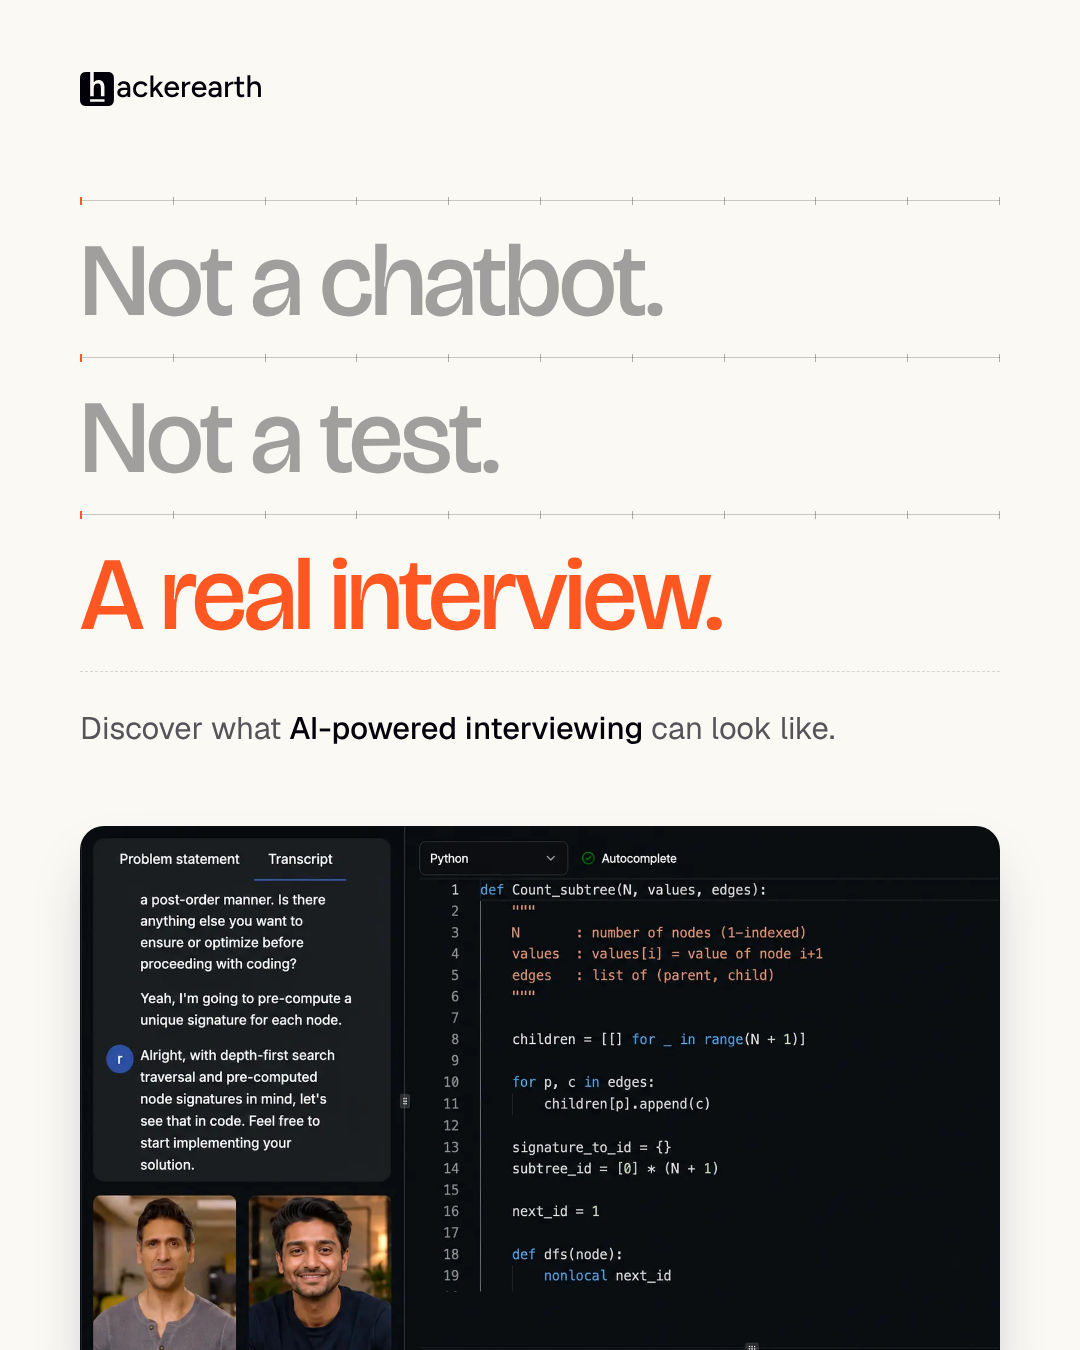
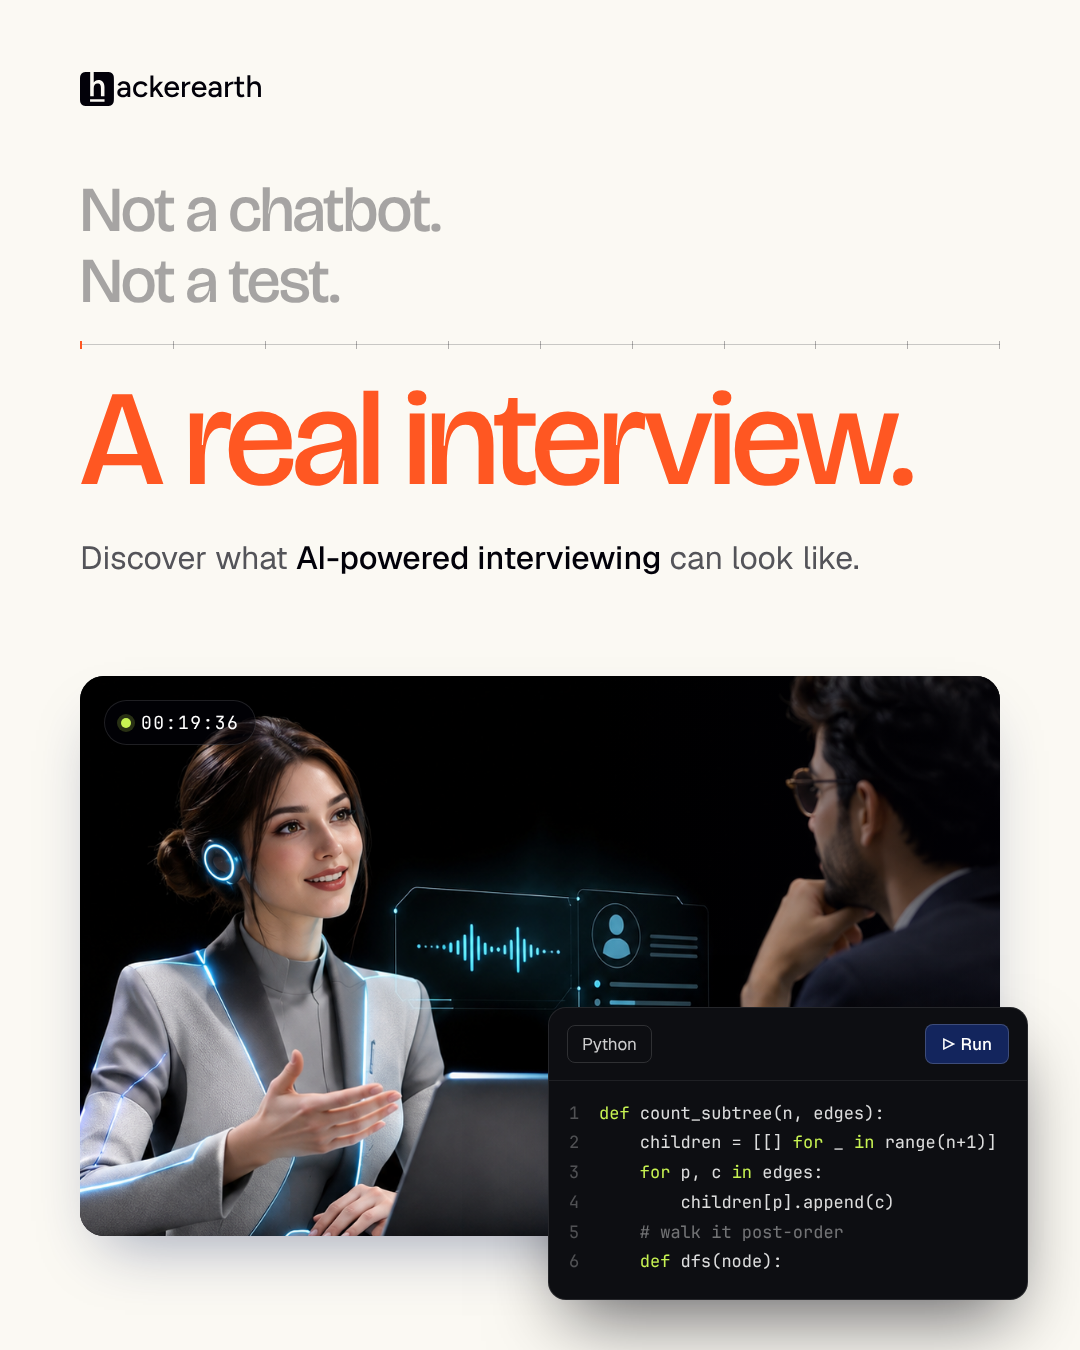
Static post: stronger hierarchy and interview + live-code scene
Claude-Session: https://claude.ai/code/session_011WvSfdXWh4koNY7sQ51yCa

diff --git a/onscreen-carousel/static-post.html b/onscreen-carousel/static-post.html
@@ -73,15 +73,27 @@
 
   
   /* ---------- STATIC POST ---------- */
-  .p .content { position: absolute; top: 160px; left: 80px; right: 80px; }
-  .stack { margin-top: 40px; }
-  .stack .line { position: relative; border-top: 1px solid rgba(2,1,9,0.2); padding: 28px 0 24px; font-family: var(--display); font-weight: 500; font-size: 104px; line-height: 1; letter-spacing: -3.2px; font-variation-settings: "opsz" 96; }
-  .stack .line.muted { color: rgba(2,1,9,0.36); }
-  .stack .line em { font-style: normal; color: var(--cta); }
-  .stack .line:last-child { border-bottom: 1px dashed rgba(2,1,9,0.14); }
-  .p .lead { margin-top: 34px; }
-  .p .shot { position: absolute; left: 80px; right: 80px; top: 826px; bottom: -40px; border-radius: 24px; overflow: hidden; border: 1px solid rgba(2,1,9,0.08); box-shadow: 0 30px 60px -20px rgba(19,37,93,0.35); background: #0d0e12; }
-  .p .shot img { display: block; width: 100%; height: 100%; object-fit: cover; object-position: left top; }
+  .p .content { position: absolute; top: 176px; left: 80px; right: 80px; }
+  .nots { display: flex; flex-direction: column; gap: 4px; }
+  .nots span { font-family: var(--display); font-weight: 500; font-size: 64px; line-height: 1.05; letter-spacing: -1.8px; color: rgba(2,1,9,0.34); font-variation-settings: "opsz" 96; }
+  .big { position: relative; margin-top: 30px; padding-top: 30px; border-top: 1px solid rgba(2,1,9,0.2); font-family: var(--display); font-weight: 500; font-size: 136px; line-height: 0.95; letter-spacing: -4.6px; color: var(--cta); font-variation-settings: "opsz" 96; }
+  .p .lead { margin-top: 30px; font-size: 32px; }
+
+  .scene { position: absolute; left: 80px; right: 80px; top: 676px; height: 560px; }
+  .photo { position: absolute; inset: 0 0 0 0; border-radius: 24px; overflow: hidden; background: #020109; box-shadow: 0 30px 60px -24px rgba(19,37,93,0.4); }
+  .photo img { position: absolute; width: 1000px; height: 1000px; left: -40px; top: -150px; }
+  .photo::after { content: ""; position: absolute; inset: 0; background: linear-gradient(90deg, rgba(2,1,9,0) 55%, rgba(2,1,9,0.55) 100%); }
+  .live { position: absolute; top: 24px; left: 24px; z-index: 2; display: inline-flex; align-items: center; gap: 10px; padding: 10px 16px; border-radius: 100px; background: rgba(2,1,9,0.55); border: 1px solid rgba(255,255,255,0.12); font-family: var(--mono); font-size: 18px; letter-spacing: 1.5px; color: #fff; }
+  .live i { width: 10px; height: 10px; border-radius: 50%; background: var(--lime); box-shadow: 0 0 0 4px rgba(199,242,82,0.2); }
+
+  .code { position: absolute; right: -28px; bottom: -64px; width: 480px; border-radius: 18px; background: #0d0e12; border: 1px solid rgba(255,255,255,0.1); box-shadow: 0 34px 70px -18px rgba(2,1,9,0.6); overflow: hidden; z-index: 3; }
+  .code .bar { display: flex; align-items: center; justify-content: space-between; padding: 16px 18px; border-bottom: 1px solid rgba(255,255,255,0.08); }
+  .code .lang { font-family: var(--body); font-size: 17px; color: rgba(255,255,255,0.8); padding: 7px 14px; border: 1px solid rgba(255,255,255,0.14); border-radius: 8px; }
+  .code .run { font-family: var(--body); font-weight: 500; font-size: 17px; color: #fff; background: var(--accent); padding: 8px 16px; border-radius: 8px; border: 1px solid rgba(255,255,255,0.18); }
+  .code pre { margin: 0; padding: 18px 20px 22px; font-family: var(--mono); font-size: 17px; line-height: 1.75; color: rgba(255,255,255,0.86); }
+  .code .n { color: rgba(255,255,255,0.28); display: inline-block; width: 30px; }
+  .code .k { color: var(--lime); }
+  .code .c { color: rgba(255,255,255,0.42); }
 </style>
 </head>
 <body>
@@ -96,14 +108,25 @@
     <img src="../Logo%20Dark.svg" alt="hackerearth">
   </div>
   <div class="content">
-    <div class="stack">
-      <div class="line muted"><span class="marks"><span></span><span></span><span></span><span></span><span></span><span></span><span></span><span></span><span></span><span></span><span></span></span>Not a chatbot.</div>
-      <div class="line muted"><span class="marks"><span></span><span></span><span></span><span></span><span></span><span></span><span></span><span></span><span></span><span></span><span></span></span>Not a test.</div>
-      <div class="line"><span class="marks"><span></span><span></span><span></span><span></span><span></span><span></span><span></span><span></span><span></span><span></span><span></span></span><em>A real interview.</em></div>
-    </div>
+    <div class="nots"><span>Not a chatbot.</span><span>Not a test.</span></div>
+    <div class="big"><span class="marks"><span></span><span></span><span></span><span></span><span></span><span></span><span></span><span></span><span></span><span></span><span></span></span>A real interview.</div>
     <p class="lead">Discover what <strong>AI-powered interviewing</strong> can look like.</p>
   </div>
-  <div class="shot"><img src="../6a22c828aa7a66ddff2c96c1_1%20(5).webp" alt=""></div>
+  <div class="scene">
+    <div class="photo">
+      <span class="live"><i></i>00:19:36</span>
+      <img src="../Futuristic%20AI%20Interview%20Analysis.png" alt="">
+    </div>
+    <div class="code">
+      <div class="bar"><span class="lang">Python</span><span class="run">▷ Run</span></div>
+<pre><span class="n">1</span><span class="k">def</span> count_subtree(n, edges):
+<span class="n">2</span>    children = [[] <span class="k">for</span> _ <span class="k">in</span> range(n+1)]
+<span class="n">3</span>    <span class="k">for</span> p, c <span class="k">in</span> edges:
+<span class="n">4</span>        children[p].append(c)
+<span class="n">5</span>    <span class="c"># walk it post-order</span>
+<span class="n">6</span>    <span class="k">def</span> dfs(node):</pre>
+    </div>
+  </div>
 </section>
 <script>
   const compass = document.getElementById('compass').innerHTML;
